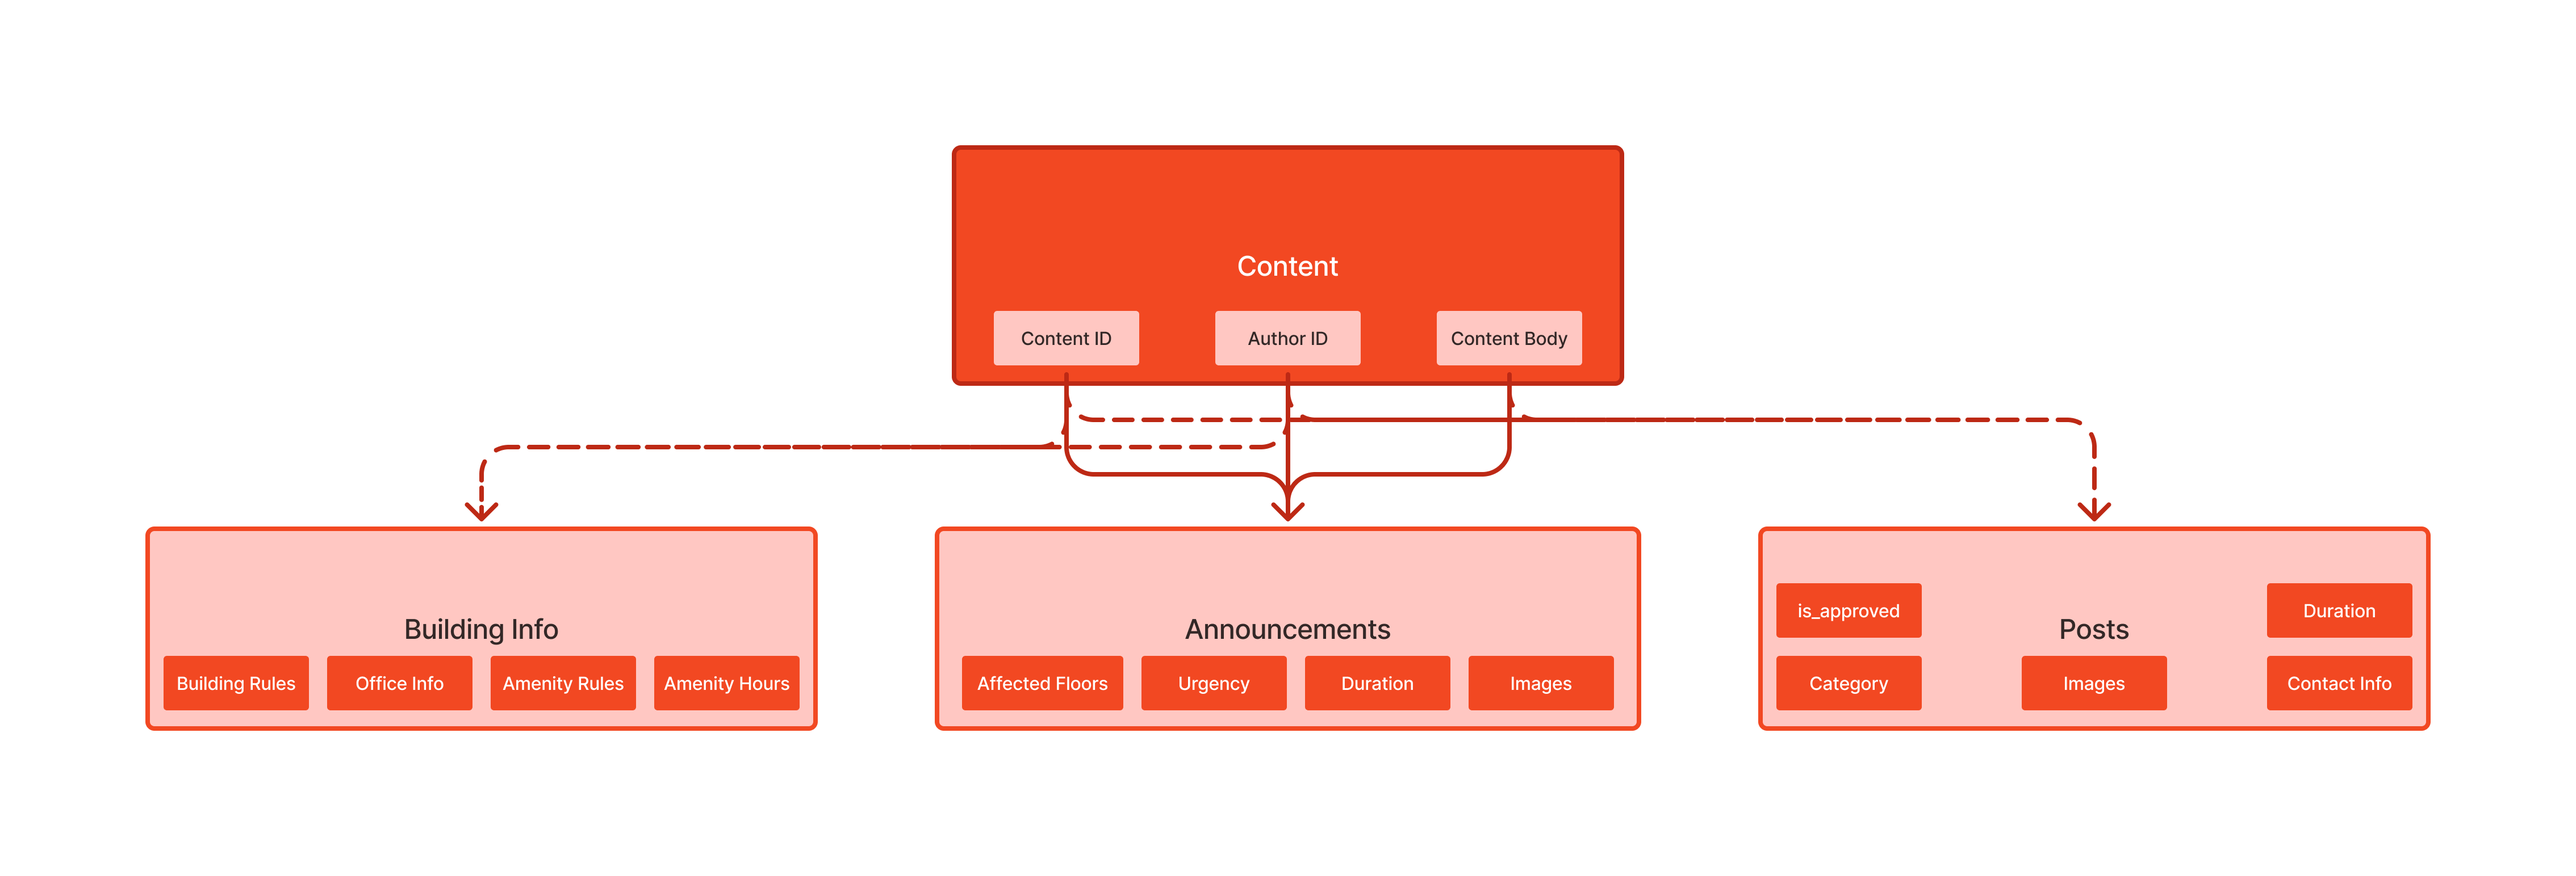
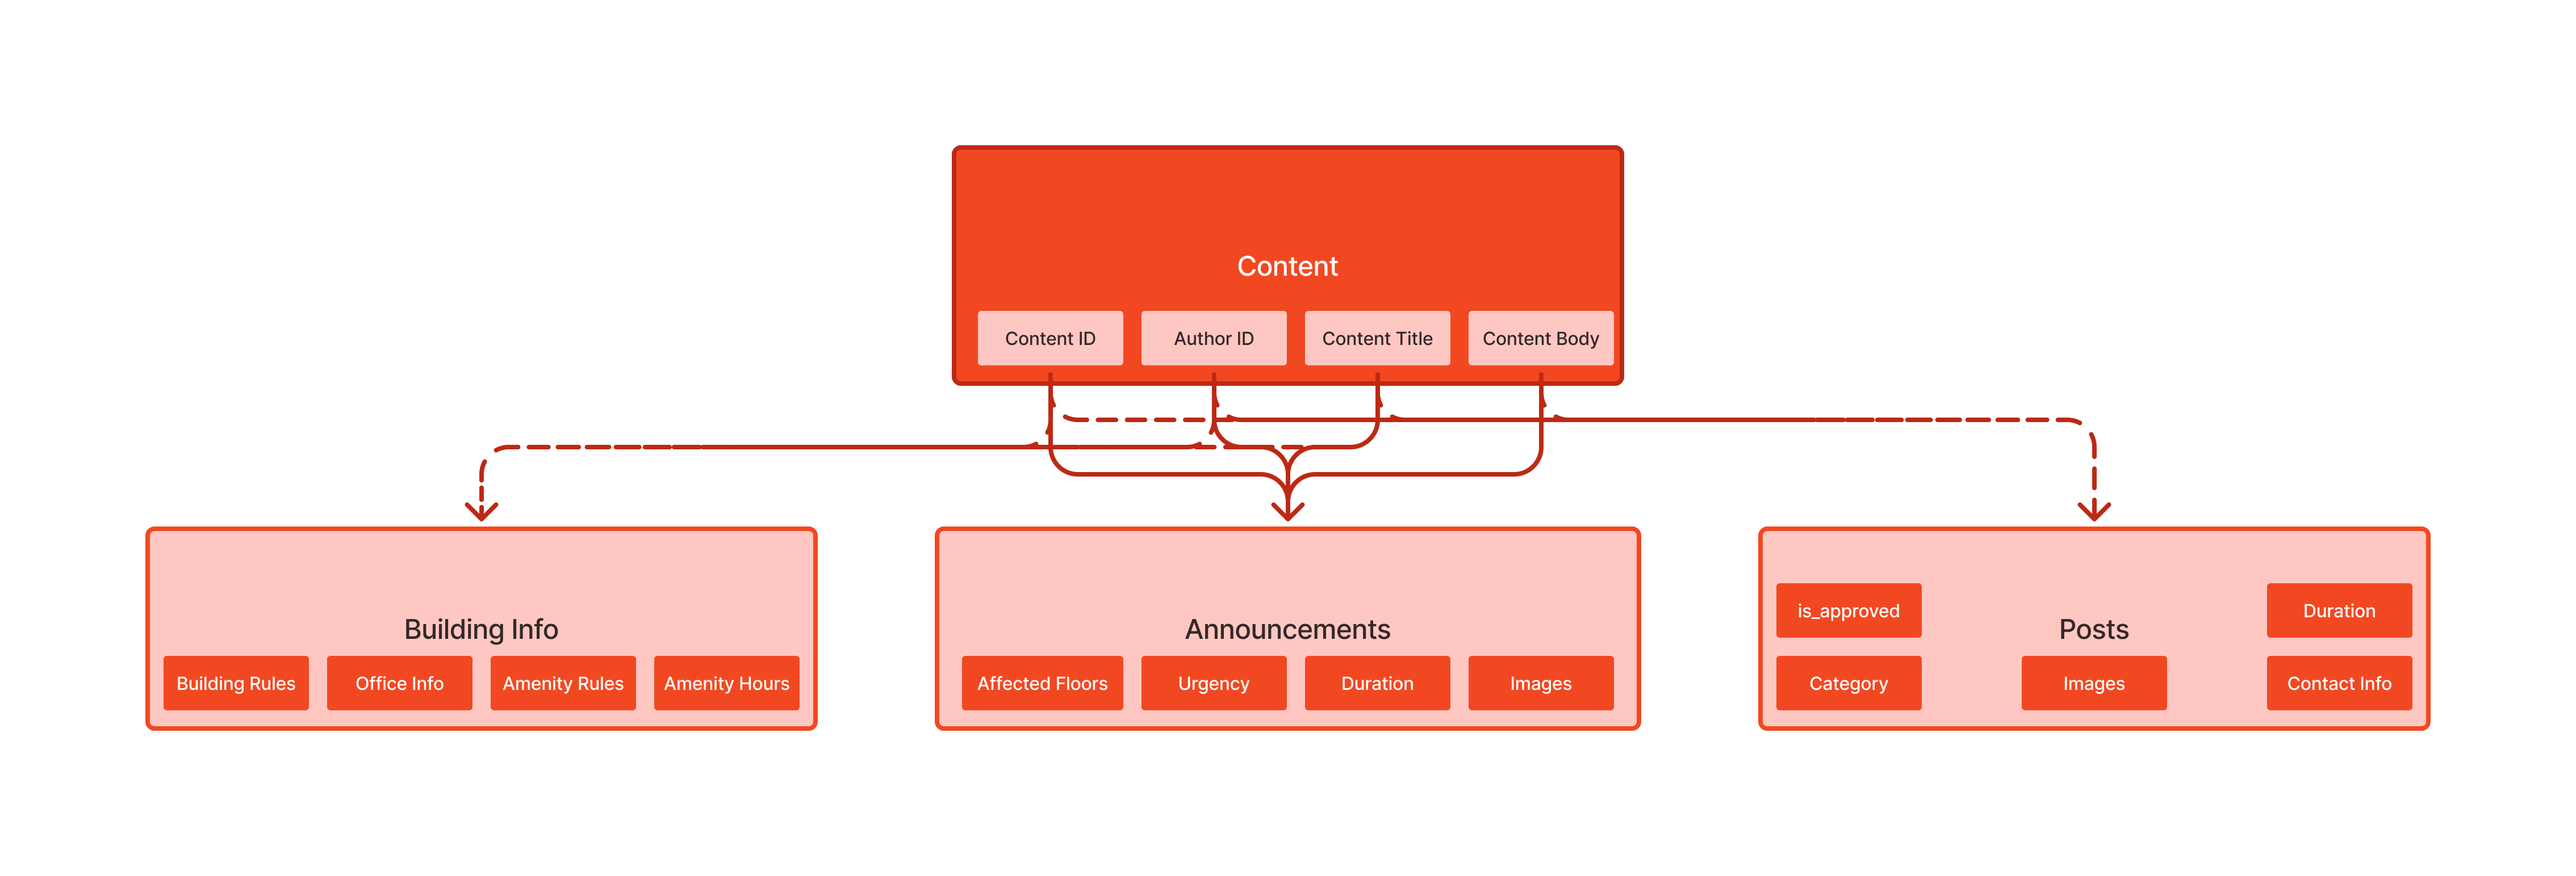
Adding color palette elements

Changed region(s): [[0.373, 0.342, 0.6528, 0.4352], [0.4041, 0.4352, 0.4352, 0.5596], [0.4663, 0.4663, 0.5284, 0.5285]]

diff --git a/Journal/Week1.md b/Journal/Week1.md
@@ -36,20 +36,23 @@ Required Deliverables:
 - I realise I am also having a bit of trouble verbalizing what I am thinking in terms of development (features and components) so I am trying to draw out some diagrams and think of keywords that will help me better represent these ideas outside of my head.
 
 ### To Do
-- [ ] Define project scope in README based on notes
-- [ ] Draw out db model based on notes
+- [x] Define project scope in README based on notes
+- [x] Draw out db model based on notes
 - [ ] Preliminary wireframing (lo-med fidelity)
 - [ ] Set preliminary project timeline
 
 ## Wednesday Jul 29, 2026
 ### Tasks Done Today
-- 
+- I recreated the model I thought up in my notebook into model diagrams in FigJam
+- I expanded on my notebook notes for the project scope
+- I started making the low fidelity wireframes (Home pages completed & dashboard started (admin))
+- I created the base for the [color palette](/Project%20Progress%20Assets/Base%20Color%20Palette.png) to confirm contrast and color accessibility
 
 ### What is blocking me?
-- 
+- I am having a lot of trouble conceptualizing how long each step will take so I am not too sure how to write the milestone plan
 
 ### To Do
-- [ ] ...
+- [ ] 
 
 ## Thursday Jul 30, 2026
 ### Tasks Done Today

diff --git a/README.md b/README.md
@@ -44,6 +44,11 @@ Deliverables:
 - approve or decline post feature for resident posts
 
 ### Implementation Schedule
+- Week 1: Definition & Design Plan
+- Week 2: Backend Foundation
+- Week 3: Frontend Integration
+- Week 4: Integrated Working Prototype
+- Week 5: Feature Completion and Testing
 
 ### Proposed Database Models & Relationships
 ![Primary Content Model](./Project%20Progress%20Assets/Primary%20Content%20Model.png)
